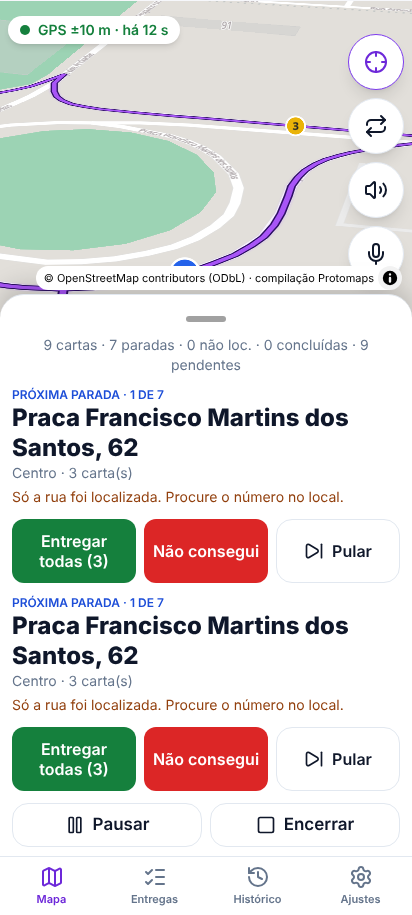
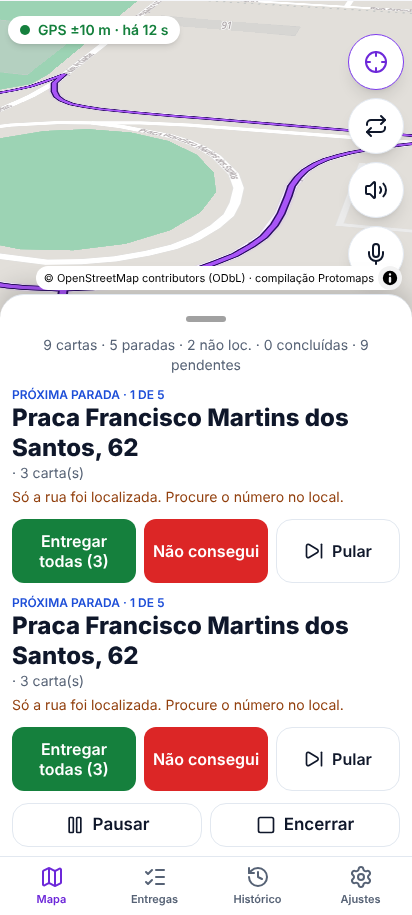
fix(ui): painel duplicado na navegação; contraste do texto secundário; escopo Santos no teste
Claude-Session: https://claude.ai/code/session_015CedTWmR5xexhe4DhTTCww

diff --git a/mobile/src/pages/MapHome.tsx b/mobile/src/pages/MapHome.tsx
@@ -365,35 +365,6 @@ export function MapHome({ nav, focusKey }: { nav: Nav; focusKey?: string }) {
                 </div>
                 {detail && <Details stop={cur} onMark={(l, s) => mark([l], s)} nav={nav} batchId={batchId!} reload={reload} />}
               </>
-            ) : (
-              <Alert kind="ok">Todas as paradas desta rota foram tratadas. {pendingLetters > 0 ? `${pendingLetters} carta(s) pendente(s) fora da rota.` : "Bom trabalho!"}</Alert>
-            )}
-            {cur ? (
-              <>
-                <div>
-                  <div className="text-xs font-semibold uppercase text-next">{current && current.rs.key === next?.rs.key ? "Próxima parada" : "Parada selecionada"} · {current!.rs.seq} de {items.length}</div>
-                  <div className="text-2xl font-extrabold leading-tight" data-testid="cur-addr">{curAddr}</div>
-                  <div className="flex flex-wrap items-center gap-1 text-sm muted">
-                    {cur.address.neighborhood ?? ""} · {curLetters.length} carta(s)
-                    {navigating && st && st.stopKey === current!.rs.key && st.stopDist >= 0 && <b> · a {fmtDist(st.stopDist)}</b>}
-                  </div>
-                  {sheetMode !== "compact" && <div className="mt-1 flex flex-wrap gap-1"><Badge color={cur.trust.approximate ? "#b45309" : "#16a34a"}>{cur.trust.label}</Badge></div>}
-                  {note && <p className="mt-1 text-sm text-amber-700" role="note">{note}</p>}
-                </div>
-                {navigating && ui.nearStopKey === current!.rs.key && ui.nearStopText && (
-                  <Alert kind="ok">{ui.nearStopText}</Alert>
-                )}
-                <div className={cn("grid gap-2", sheetMode === "compact" ? "grid-cols-3" : "grid-cols-2")}>
-                  <Button variant="success" size="lg" className="h-16 whitespace-normal px-2 text-base leading-tight" disabled={!curLetters.length}
-                    onClick={() => curLetters.length > 1 ? setConfirmDeliver(current!.rs.key) : mark(curLetters, "delivered")}>
-                    {curLetters.length > 1 ? `Entregar todas (${curLetters.length})` : "Entregue"}
-                  </Button>
-                  <Button variant="danger" size="lg" className="h-16 whitespace-normal px-2 text-base leading-tight" disabled={!curLetters.length} onClick={() => setReasonOpen(true)}>Não consegui</Button>
-                  <Button variant="secondary" size="lg" className={cn("whitespace-normal px-2 text-base", sheetMode === "compact" ? "h-16" : "h-14")} disabled={!curLetters.length} onClick={() => mark(curLetters, "postponed")}><SkipForward className="h-5 w-5" /> Pular</Button>
-                  {sheetMode !== "compact" && <Button variant="secondary" size="lg" className="h-14 whitespace-normal" onClick={() => setDetail(!detail)}><Info className="h-5 w-5" /> Detalhes</Button>}
-                </div>
-                {detail && <Details stop={cur} onMark={(l, s) => mark([l], s)} nav={nav} batchId={batchId!} reload={reload} />}
-              </>
             ) : null}
             <div className="grid grid-cols-2 gap-2">
               {!navigating ? (

diff --git a/mobile/src/index.css b/mobile/src/index.css
@@ -12,7 +12,7 @@
   --color-problem: #dc2626;
   --color-postponed: #6b7280;
 }
-:root { --bg: #f6f7fb; --fg: #0f172a; --card: #ffffff; --muted: #64748b; --border: #e2e8f0; }
+:root { --bg: #f6f7fb; --fg: #0f172a; --card: #ffffff; --muted: #566275; --border: #e2e8f0; }
 .dark { --bg: #0b1020; --fg: #f8fafc; --card: #12192b; --muted: #94a3b8; --border: #25324a; }
 html, body { background: var(--bg); color: var(--fg); }
 body { font-size: 17px; -webkit-tap-highlight-color: transparent; padding-top: env(safe-area-inset-top); }
